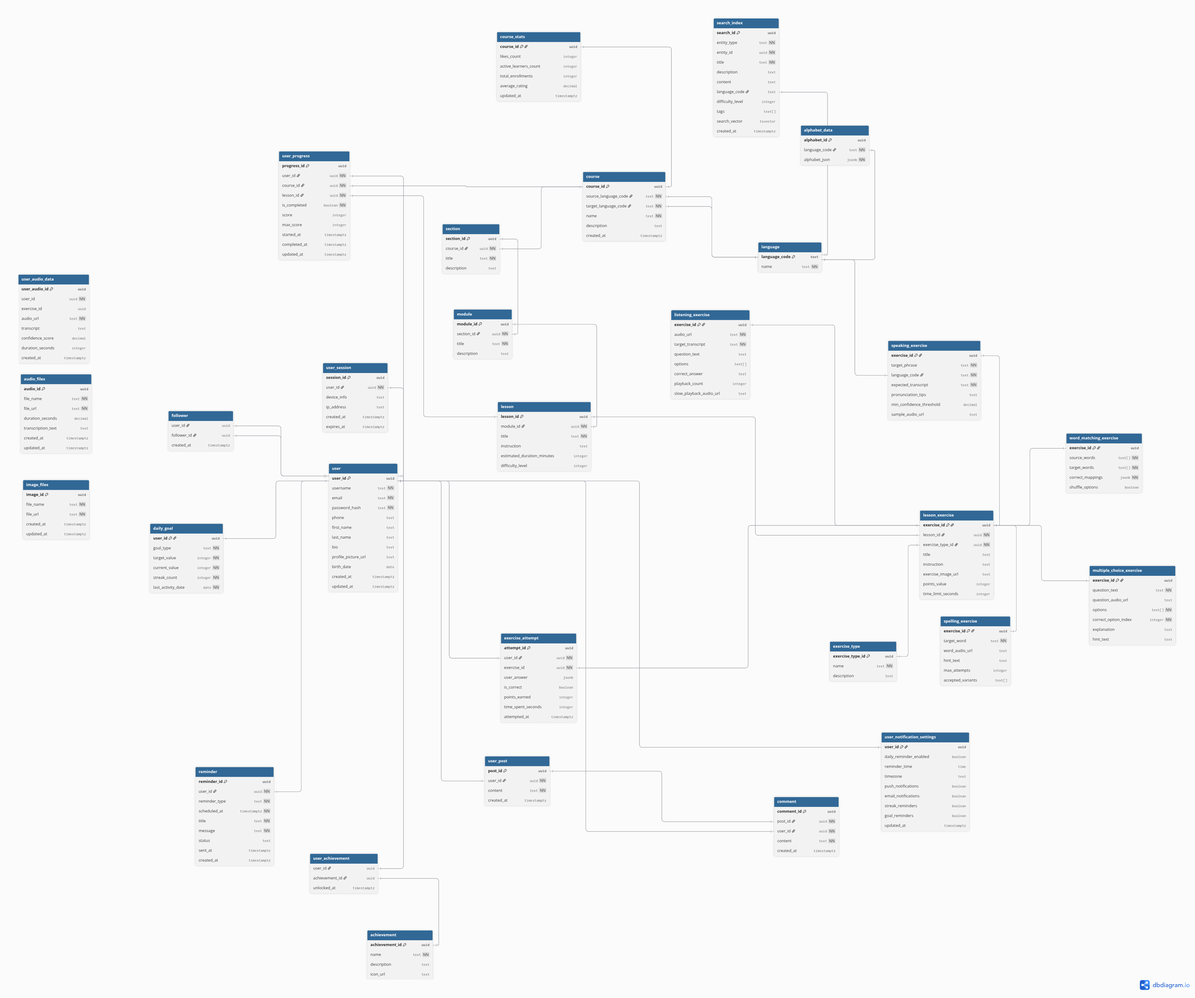
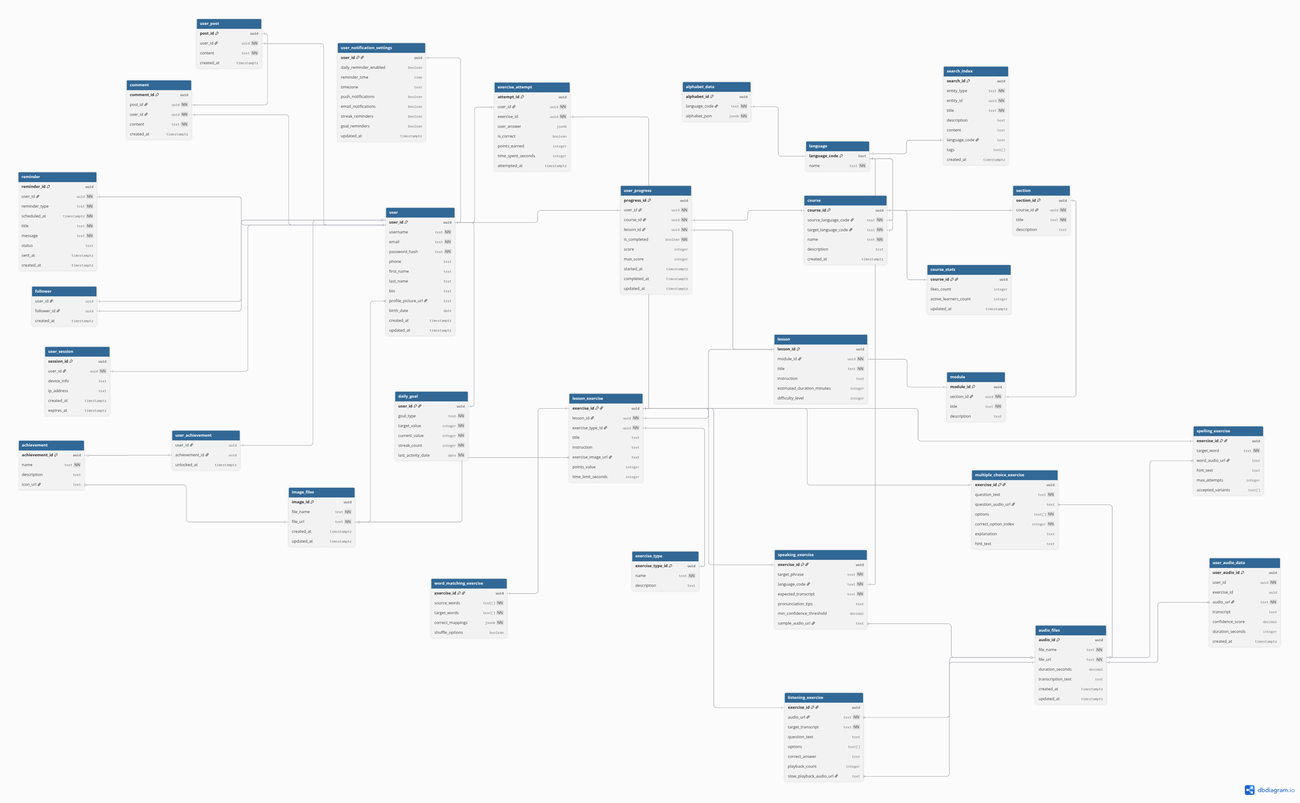
small fixes

diff --git a/README.md b/README.md
@@ -410,8 +410,6 @@ DNS-система направляет пользователя в геогра
 | course_id             | UUID        | 16            | Уникальный идентификатор курса (PK)   |
 | likes_count           | INTEGER     | 4             | Количество лайков курса               |
 | active_learners_count | INTEGER     | 4             | Количество активных учеников          |
-| total_enrollments     | INTEGER     | 4             | Общее количество записей на курс      |
-| average_rating        | DECIMAL     | 8             | Средний рейтинг курса                 |
 | updated_at            | TIMESTAMPTZ | 8             | Дата последнего обновления статистики |
 
 #### Таблица Разделы курса
@@ -641,58 +639,63 @@ DNS-система направляет пользователя в геогра
 | description      | text        | 1000          | Описание                             |
 | content          | text        | 5000          | Содержание                           |
 | language_code    | text        | 5             | Код языка                            |
-| difficulty_level | integer     | 4             | Уровень сложности                    |
 | tags             | text[]      | 500           | Теги                                 |
-| search_vector    | tsvector    | 1000          | Вектор поиска                        |
 | created_at       | timestamptz | 8             | Дата создания                        |
 
 
 ## 6. Физическая схема БД
 
 ### Сводная таблица
-| Таблица                            | Денормализация                   | Индексы                                                     | Шардирование                 | СУБД                      | Резервное копирование, тип и частота                         |
-|------------------------------------|----------------------------------|-------------------------------------------------------------|------------------------------|---------------------------|--------------------------------------------------------------|
-| Пользователи                       | Нет                              | email                                                       | Нет                          | PostgreSQL                | Полный ежедневно + инкрементальный ежечасно + WAL непрерывно |
-| Сессии                             | Нет                              | Нет                                                         | По session_id                | Redis                     | RDB снепшоты + AOF лог, ежечасно + непрерывно                |
-| файлы Изображений                  | Нет                              | Нет                                                         | По дате создания             | MinIO                     | Полный ежемесячно + инкрементальный еженедельно + versioning |
-| Аудио файлы                        | Нет                              | Нет                                                         | По дате создания             | MinIO                     | Полный ежемесячно + инкрементальный ежедневно + versioning   |
-| Языки                              | Нет                              | Нет                                                         | Нет                          | PostgreSQL                | Полный, ежемесячно                                           |
-| Курсы                              | Нет                              | source_language_id, target_language_id                      | Нет                          | PostgreSQL                | Полный, ежемесячно                                           |
-| Счетчики курсов                    | Нет                              | Нет                                                         | Нет                          | PostgreSQL                | Полный, ежемесячно                                           |
-| Разделы курса                      | Нет                              | course_id, section_id                                       | Нет                          | PostgreSQL                | Полный, ежемесячно                                           |
-| Модули                             | Нет                              | section_id, module_id                                       | Нет                          | PostgreSQL                | Полный, ежемесячно                                           |
-| Уроки                              | module_title                     | module_id, lesson_id, difficulty_level                      | Нет                          | PostgreSQL                | Полный, ежемесячно                                           |
-| Типы упражнений                    | Нет                              | name, exercise_type_id                                      | Нет                          | PostgreSQL                | Полный, ежемесячно                                           |
-| Упражнения уроков                  | lesson_title, exercise_type_name | lesson_id, exercise_type_id, exercise_id, difficulty_level  | Нет                          | PostgreSQL                | Полный, ежемесячно                                           |
-| Упражнения с множественным выбором | Нет                              | Нет                                                         | Нет                          | PostgreSQL                | Полный, ежемесячно                                           |
-| Упражнения на сопоставление слов   | Нет                              | Нет                                                         | Нет                          | PostgreSQL                | Полный, ежемесячно                                           |
-| Упражнения на аудирование          | Нет                              | exercise_id, audio_url                                      | Нет                          | PostgreSQL                | Полный, ежемесячно                                           |
-| Упражнения на говорение            | Нет                              | Нет                                                         | Нет                          | PostgreSQL                | Полный, ежемесячно                                           |
-| Упражнения на правописание         | Нет                              | exercise_id, target_word                                    | Нет                          | PostgreSQL                | Полный, ежемесячно                                           |
-| Буква                              | Нет                              | Нет                                                         | Нет                          | PostgreSQL                | Полный, ежемесячно                                           |
-| Прогресс пользователя              | Нет                              | user_id, course_id, lesson_id                               | Горизонтальное по user_id    | PostgreSQL                | Полный ежедневно + инкрементальный ежечасно + WAL непрерывно |
-| Попытки упражнений                 | Нет                              | user_id, exercise_id, attempted_at                          | Горизонтальное по created_at | ClickHouse                | Полный еженедельно + инкрементальный ежедневно + репликация  |
-| Аудиоданные                        | Нет                              | Нет                                                         | Нет                          | PostgreSQL                | Полный, ежедневно                                            |
-| Настройки уведомлений              | Нет                              | user_id                                                     | Нет                          | PostgreSQL                | Полный, еженедельно                                          |
-| Напоминания                        | user_email                       | user_id, scheduled_at, status                               | Нет                          | PostgreSQL                | Полный, ежедневно                                            |
-| Подписки                           | Нет                              | Нет                                                         | Нет                          | PostgreSQL                | Полный еженедельно + WAL непрерывно                          |
-| Посты пользователей                | Нет                              | Нет                                                         | Нет                          | PostgreSQL                | Полный еженедельно + WAL непрерывно                          |
-| Комментарии                        | Нет                              | Нет                                                         | Нет                          | PostgreSQL                | Полный еженедельно + WAL непрерывно                          |
-| Достижения                         | Нет                              | name, achievement_id                                        | Нет                          | PostgreSQL                | Полный, ежемесячно                                           |
-| Достижения пользователей           | achievement_name                 | user_id, achievement_id, unlocked_at                        | Нет                          | PostgreSQL                | Полный ежедневно + инкрементальный ежечасно + WAL непрерывно |
-| Ежедневные цели                    | goal_name                        | user_id, goal_type, last_activity_date                      | Нет                          | PostgreSQL                | Полный ежедневно + инкрементальный ежечасно + WAL непрерывно |
-| Поиск                              | Нет                              | search_vector, entity_type, language_code                   | По индексам                  | Elasticsearch             | Snapshot, ежедневно                                          |
-| Метрики                            | Нет                              | Нет                                                         | Автоматическое               | VictoriaMetrics           | Snapshot, ежедневно                                          |
-| Логи                               | Нет                              | Нет                                                         | По дате                      | Elasticsearch             | Snapshot, ежедневно                                          |
+| Таблица                            | Денормализация                   | Индексы                                                    | Шардирование                 | СУБД            | Резервное копирование, тип и частота                         |
+|------------------------------------|----------------------------------|------------------------------------------------------------|------------------------------|-----------------|--------------------------------------------------------------|
+| Пользователи                       | Нет                              | email                                                      | Нет                          | PostgreSQL      | Полный ежедневно + инкрементальный ежечасно + WAL непрерывно |
+| Сессии                             | Нет                              | Нет                                                        | По session_id                | Redis           | RDB снепшоты + AOF лог, ежечасно + непрерывно                |
+| файлы Изображений                  | Нет                              | Нет                                                        | По дате создания             | MinIO           | Полный ежемесячно + инкрементальный еженедельно + versioning |
+| Аудио файлы                        | Нет                              | Нет                                                        | По дате создания             | MinIO           | Полный ежемесячно + инкрементальный ежедневно + versioning   |
+| Языки                              | Нет                              | Нет                                                        | Нет                          | PostgreSQL      | Полный, ежемесячно                                           |
+| Курсы                              | Нет                              | source_language_id, target_language_id                     | Нет                          | PostgreSQL      | Полный, ежемесячно                                           |
+| Счетчики курсов                    | Нет                              | Нет                                                        | Нет                          | PostgreSQL      | Полный, ежемесячно                                           |
+| Разделы курса                      | Нет                              | course_id, section_id                                      | Нет                          | PostgreSQL      | Полный, ежемесячно                                           |
+| Модули                             | Нет                              | section_id, module_id                                      | Нет                          | PostgreSQL      | Полный, ежемесячно                                           |
+| Уроки                              | module_title                     | module_id, lesson_id, difficulty_level                     | Нет                          | PostgreSQL      | Полный, ежемесячно                                           |
+| Типы упражнений                    | Нет                              | name, exercise_type_id                                     | Нет                          | PostgreSQL      | Полный, ежемесячно                                           |
+| Упражнения уроков                  | lesson_title, exercise_type_name | lesson_id, exercise_type_id, exercise_id, difficulty_level | Нет                          | PostgreSQL      | Полный, ежемесячно                                           |
+| Упражнения с множественным выбором | Нет                              | Нет                                                        | Нет                          | PostgreSQL      | Полный, ежемесячно                                           |
+| Упражнения на сопоставление слов   | Нет                              | Нет                                                        | Нет                          | PostgreSQL      | Полный, ежемесячно                                           |
+| Упражнения на аудирование          | Нет                              | exercise_id, audio_url                                     | Нет                          | PostgreSQL      | Полный, ежемесячно                                           |
+| Упражнения на говорение            | Нет                              | Нет                                                        | Нет                          | PostgreSQL      | Полный, ежемесячно                                           |
+| Упражнения на правописание         | Нет                              | exercise_id, target_word                                   | Нет                          | PostgreSQL      | Полный, ежемесячно                                           |
+| Буква                              | Нет                              | Нет                                                        | Нет                          | PostgreSQL      | Полный, ежемесячно                                           |
+| Прогресс пользователя              | Нет                              | user_id, course_id, lesson_id                              | Горизонтальное по user_id    | PostgreSQL      | Полный ежедневно + инкрементальный ежечасно + WAL непрерывно |
+| Попытки упражнений                 | Нет                              | user_id, exercise_id, attempted_at                         | Горизонтальное по created_at | ClickHouse      | Полный еженедельно + инкрементальный ежедневно + репликация  |
+| Аудиоданные                        | Нет                              | Нет                                                        | Нет                          | PostgreSQL      | Полный, ежедневно                                            |
+| Настройки уведомлений              | Нет                              | user_id                                                    | Нет                          | PostgreSQL      | Полный, еженедельно                                          |
+| Напоминания                        | Нет                              | Нет                                                        | Нет                          | BadgerDB        | Полный, ежедневно                                            |
+| Подписки                           | Нет                              | Нет                                                        | Нет                          | PostgreSQL      | Полный еженедельно + WAL непрерывно                          |
+| Посты пользователей                | Нет                              | Нет                                                        | Нет                          | PostgreSQL      | Полный еженедельно + WAL непрерывно                          |
+| Комментарии                        | Нет                              | Нет                                                        | Нет                          | PostgreSQL      | Полный еженедельно + WAL непрерывно                          |
+| Достижения                         | Нет                              | name, achievement_id                                       | Нет                          | PostgreSQL      | Полный, ежемесячно                                           |
+| Достижения пользователей           | achievement_name                 | user_id, achievement_id, unlocked_at                       | Нет                          | PostgreSQL      | Полный ежедневно + инкрементальный ежечасно + WAL непрерывно |
+| Ежедневные цели                    | goal_name                        | user_id, goal_type, last_activity_date                     | Нет                          | PostgreSQL      | Полный ежедневно + инкрементальный ежечасно + WAL непрерывно |
+| Поиск                              | Нет                              | search_vector, entity_type, language_code                  | По индексам                  | Elasticsearch   | Snapshot, ежедневно                                          |
+| Метрики                            | Нет                              | Нет                                                        | Автоматическое               | VictoriaMetrics | Snapshot, ежедневно                                          |
+| Логи                               | Нет                              | Нет                                                        | По дате                      | Elasticsearch   | Snapshot, ежедневно                                          |
 
-
-В PostgreSQL шардирование не применяется. Все таблицы хранятся в едином кластере с репликацией Master-Slave. Это упрощает разработку и обслуживание на начальном этапе.
+| СУБД            | Таблицы/данные                                                                                                                                                                                                                                                                                                                                                                                                                             | Объём данных   | Шардирование                                      | Шардов   | Реплики   |
+|-----------------|--------------------------------------------------------------------------------------------------------------------------------------------------------------------------------------------------------------------------------------------------------------------------------------------------------------------------------------------------------------------------------------------------------------------------------------------|----------------|---------------------------------------------------|----------|-----------|
+| PostgreSQL      | Пользователи, Языки, Курсы, Счетчики курсов, Разделы курса, Модули, Уроки, Типы упражнений, Упражнения уроков, Упражнения с множественным выбором, Упражнения на сопоставление слов, Упражнения на аудирование, Упражнения на говорение, Упражнения на правописание, Буква, Прогресс пользователя, Аудиоданные, Настройки уведомлений, Подписки, Посты пользователей, Комментарии, Достижения, Достижения пользователей, Ежедневные цели   | ~230 TB        | Горизонтальное                                    | 140      | 3         |
+| Redis           | Сессии                                                                                                                                                                                                                                                                                                                                                                                                                                     | 50 GB          | По session_id                                     | 5        | 2         |
+| MinIO           | Файлы изображений, Аудио файлы                                                                                                                                                                                                                                                                                                                                                                                                             | ~235 TB        | По дате создания                                  | 12       | 3         |
+| ClickHouse      | Попытки упражнений                                                                                                                                                                                                                                                                                                                                                                                                                         | 5 TB           | Горизонтально по created_at                       | 50       | 3         |
+| Elasticsearch   | Поиск, Логи                                                                                                                                                                                                                                                                                                                                                                                                                                | 30 TB          | По индексам/по дате                               | 20       | 2         |
+| VictoriaMetrics | Метрики                                                                                                                                                                                                                                                                                                                                                                                                                                    | 5 TB           | Автоматическое                                    | 10       | 2         |
+| BadgerDB        | Напоминания                                                                                                                                                                                                                                                                                                                                                                                                                                | 20 GB          | Нет                                               | 1        | 2         |
 
 Redis развертывается в конфигурации Sentinel с одним мастером и двумя репликами. Сессии шардируются по session_id автоматически средствами Redis.
 
 ClickHouse используется только для таблицы "Попытки упражнений", которая шардируется по дате создания (toYYYYMM(attempted_at)). Остальные данные, включая прогресс пользователей, хранятся в PostgreSQL.
 
-MinIO настраивается с Erasure Coding 4+2 на 4 узлах. Медиафайлы распределяются по дате создания автоматически.
+MinIO настраивается с Erasure Coding. Медиафайлы распределяются по дате создания автоматически.
 
 Elasticsearch шардирует поисковые индексы по entity_type, а логи - по дате (daily indices). VictoriaMetrics автоматически распределяет метрики по хэшу имени.
 
@@ -810,21 +813,20 @@ Duolingo разработала принципиально новую стати
 | Half-life regression (HLR) | Адаптивное повторение, управление временем изучения слов, персонализация обучения | Расчет оптимального момента для повторения материала на основе кривой забывания и истории ответов пользователя |
 
 ## 8. Технологии
-# Технологии
 
 ### Backend
 
-| Технология        | Область применения                                                          | Обоснование применения                                                                                                   |
-|-------------------|-----------------------------------------------------------------------------|--------------------------------------------------------------------------------------------------------------------------|
-| PostgreSQL        | Основное реляционное хранилище для пользователей, курсов, уроков, прогресса | Полная поддержка ACID, репликация master-slave, богатый функционал SQL, поддержка JSONB                                  |
-| Redis             | Хранение сессий, кэширование часто используемых данных                      | Высокая производительность операций в памяти, поддержка структур данных, встроенная репликация                           |
-| ClickHouse        | Аналитическое хранилище для попыток упражнений                              | Колоночное хранение, высокая скорость агрегации больших объемов данных, эффективное сжатие                               |
-| MinIO             | Хранилище медиафайлов (аудио, изображения)                                  | S3-совместимое object storage, высокая производительность, Erasure Coding для отказоустойчивости                         |
-| gRPC              | Коммуникация между микросервисами                                           | Высокая производительность, бинарный протокол, потоковая передача, генерация кода                                        |
-| REST API          | API между бэкендом и фронтендом                                             | Широкая поддержка, простота отладки, кэширование, совместимость с браузерами                                             |
-| WebSocket         | Realtime обновления прогресса, уведомления                                  | Двусторонняя связь в реальном времени, низкие задержки                                                                   |
-| Go                | Бизнес логика приложения                                                    | Очень высокая производительность, компилируется в машинный код. Простота в написании многозадачных, асинхронных программ |
-| Swagger           | Документация API                                                            | Удобный интуитивный интерфейс. Упрощение интеграции с другими командами/сервисами                                        |
+| Технология   | Область применения                                                            | Обоснование применения                                                                                                    |
+|--------------|-------------------------------------------------------------------------------|---------------------------------------------------------------------------------------------------------------------------|
+| PostgreSQL   | Основное реляционное хранилище для пользователей, курсов, уроков, прогресса   | Полная поддержка ACID, репликация master-slave, богатый функционал SQL, поддержка JSONB                                   |
+| Redis        | Хранение сессий, кэширование часто используемых данных                        | Высокая производительность операций в памяти, поддержка структур данных, встроенная репликация                            |
+| ClickHouse   | Аналитическое хранилище для попыток упражнений                                | Колоночное хранение, высокая скорость агрегации больших объемов данных, эффективное сжатие                                |
+| MinIO        | Хранилище медиафайлов (аудио, изображения)                                    | S3-совместимое object storage, высокая производительность, Erasure Coding для отказоустойчивости                          |
+| BadgerDB     | Локальное хранилище для напоминаний                                           | Встроенный KV-store на диске, высокая производительность для небольших ключ-значение данных, поддержка ACID               |
+| gRPC         | Коммуникация между микросервисами                                             | Высокая производительность, бинарный протокол, потоковая передача, генерация кода                                         |
+| REST API     | API между бэкендом и фронтендом                                               | Широкая поддержка, простота отладки, кэширование, совместимость с браузерами                                              |
+| WebSocket    | Realtime обновления прогресса, уведомления                                    | Двусторонняя связь в реальном времени, низкие задержки                                                                    |
+| Go           | Бизнес логика приложения                                                      | Очень высокая производительность, компилируется в машинный код. Простота в написании многозадачных, асинхронных программ  |
 
 ### Frontend
 
@@ -837,11 +839,15 @@ Duolingo разработала принципиально новую стати
 
 ### DevOps
 
-| Технология                 | Область применения                 | Обоснование применения                                                                                              |
-|----------------------------|------------------------------------|---------------------------------------------------------------------------------------------------------------------|
-| Kubernetes                 | Оркестрация контейнеров            | Масштабируемость, отказоустойчивость, автоматизация деплоймента                                                     |
-| Docker                     | Контейнеризация                    | Повторяемость окружения, удобство развертывания, CI/CD-интеграция                                                   |
-| GitHub Actions / GitLab CI | CI/CD пайплайны                    | Автоматизация сборки, тестирования и деплоймента                                                                    |
+| Технология                                    | Область применения                        | Обоснование применения                                                                 |
+|-----------------------------------------------|-------------------------------------------|----------------------------------------------------------------------------------------|
+| Kubernetes                                    | Оркестрация контейнеров                   | Масштабируемость, отказоустойчивость, автоматизация деплоймента                        |
+| Docker                                        | Контейнеризация                           | Повторяемость окружения, удобство развертывания, CI/CD-интеграция                      |
+| GitHub Actions / GitLab CI                    | CI/CD пайплайны                           | Автоматизация сборки, тестирования и деплоймента                                       |
+| Prometheus                                    | Сбор метрик инфраструктуры и приложений   | Высокая производительность, поддержка alerting, интеграция с Grafana                   |
+| VictoriaMetrics                               | Хранилище временных рядов метрик          | Эффективное хранение больших объёмов метрик, сжатие, масштабируемость                  |
+| Grafana                                       | Визуализация метрик                       | Интерактивные дашборды, поддержка множества источников данных                          |
+| ELK Stack (Elasticsearch, Logstash, Kibana)   | Логирование и аналитика логов             | Централизованное хранение логов, мощные возможности поиска и визуализации              |
 
 ## Список использованных источников
 1. https://ru.wikipedia.org/wiki/Duolingo
